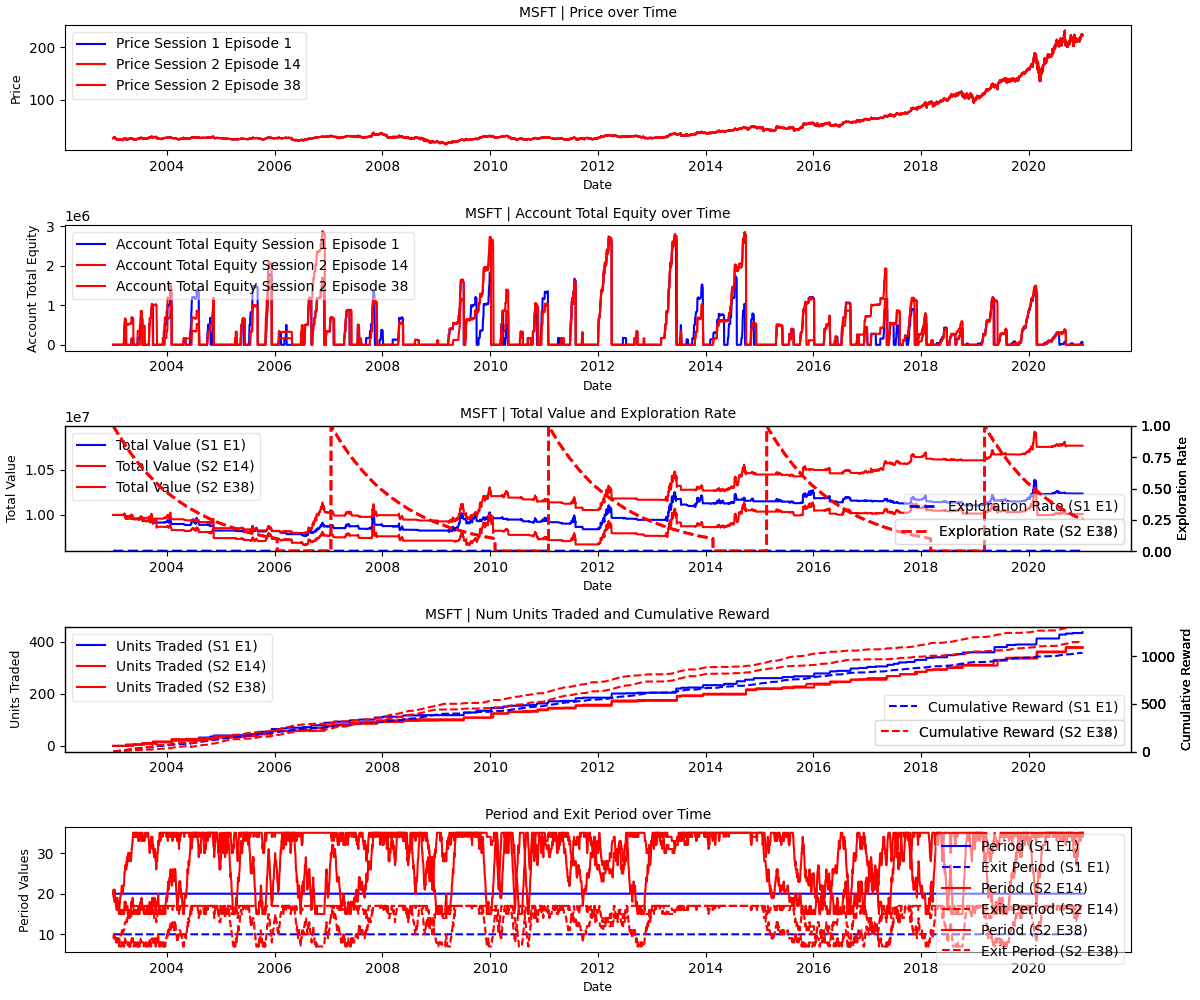
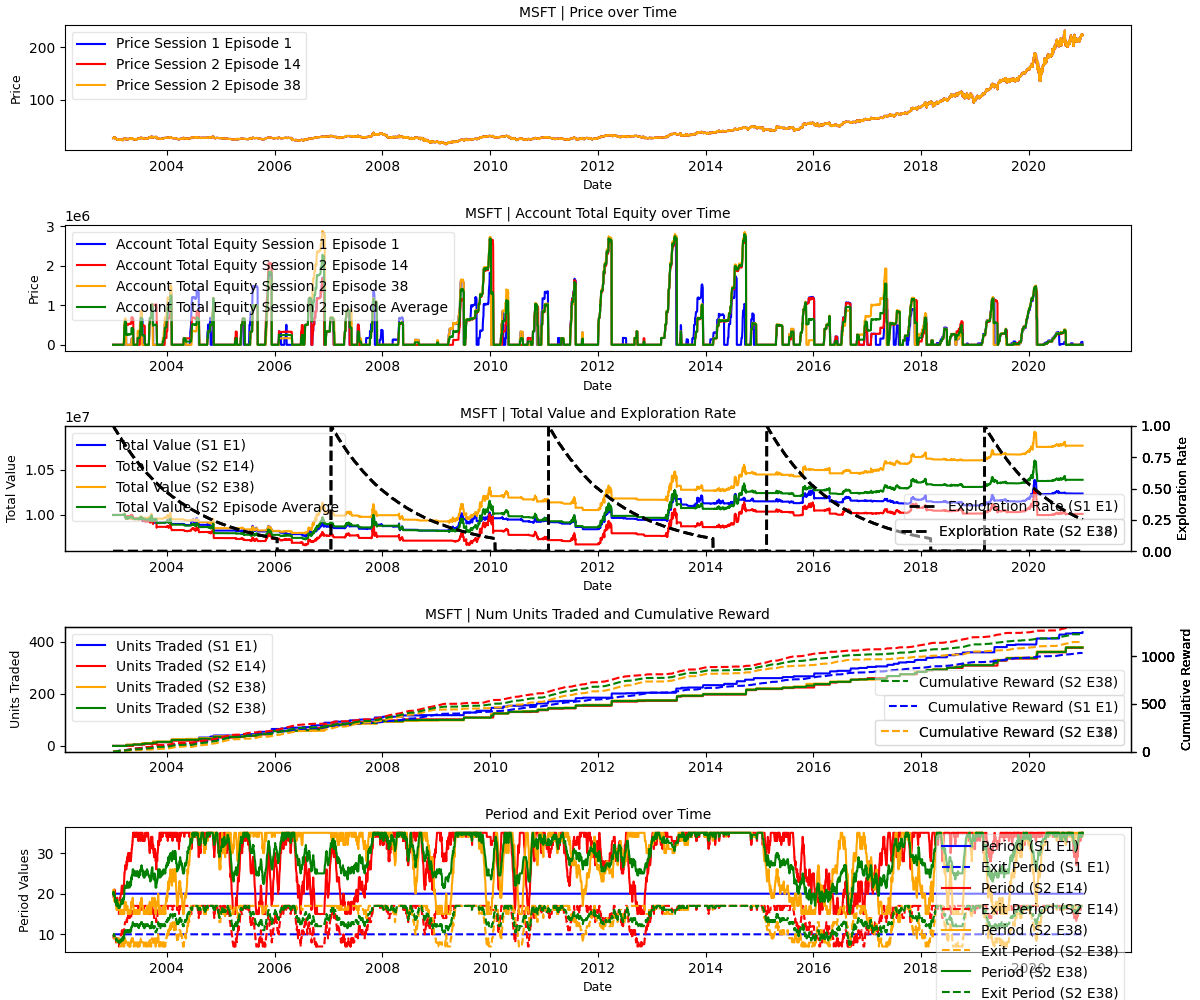
Saving and state graph done

diff --git a/src/gym_turtle_env/log_helpers.py b/src/gym_turtle_env/log_helpers.py
@@ -578,7 +578,7 @@ def plot_state_history_comparison(session_number1, session_number2, episode_nums
     - end_date: The end date to filter the data.
     """
     metrics = ['Price', 'Account Total Equity']
-    colors = ['blue', 'red', 'green', 'yellow', 'orange']
+    colors = ['blue', 'red', 'orange', 'green', 'yellow']
 
     # Adjust the figure size and the subplot layout
     fig, axs = plt.subplots(len(metrics) + 3, 1, figsize=(12, 10))  # Total height increased
@@ -600,6 +600,13 @@ def plot_state_history_comparison(session_number1, session_number2, episode_nums
         raise ValueError("Too many episodes to plot. Please limit to 5 or fewer episodes. If not specifying episode nums it is because the default param is all")
     
     ticker = None
+    
+    reward_sums_all = []
+    total_values_all = []
+    total_equities_all = []
+    num_units_all = []
+    periods_all = []
+    exit_peiods_all = []
 
     # First, determine the global min and max Exploration Rate across all data
     for session_number, episode_nums, color in [(session_number1, episode_nums1, colors[0]), (session_number2, episode_nums2, colors[1])]:
@@ -627,10 +634,14 @@ def plot_state_history_comparison(session_number1, session_number2, episode_nums
             
 
     # Load and filter data for each session and episode
+    color_index = 0
+    is_first = True
     for session_number, episode_nums, color in [(session_number1, episode_nums1, colors[0]), (session_number2, episode_nums2, colors[1])]:
         directory_path = get_log_file_path(session_number, 'state_history_logs')
         
         for episode_num in episode_nums:
+            color_use = colors[color_index]
+            color_index += 1
             file_path = os.path.join(directory_path, f'state_history_log_ep_{episode_num}.csv')
             
             if not os.path.exists(file_path):
@@ -651,7 +662,7 @@ def plot_state_history_comparison(session_number1, session_number2, episode_nums
 
             # Plot individual metrics
             for i, metric in enumerate(metrics):
-                axs[i].plot(state_log_df['Date'], state_log_df[metric], label=f"{metric} Session {session_number} Episode {episode_num}", color=color)
+                axs[i].plot(state_log_df['Date'], state_log_df[metric], label=f"{metric} Session {session_number} Episode {episode_num}", color=color_use)
                 axs[i].set_title(f"{ticker} | {metric} over Time", fontsize=10)
                 axs[i].set_xlabel('Date', fontsize=9)
                 axs[i].set_ylabel(metric, fontsize=9)
@@ -659,14 +670,14 @@ def plot_state_history_comparison(session_number1, session_number2, episode_nums
 
             # Plot Total Value and Exploration Rate
             ax_tv = axs[-3]
-            ax_tv.plot(state_log_df['Date'], state_log_df['Total Value'], label=f"Total Value (S{session_number} E{episode_num})", color=color)
+            ax_tv.plot(state_log_df['Date'], state_log_df['Total Value'], label=f"Total Value (S{session_number} E{episode_num})", color=color_use)
             ax_tv.set_title(f'{ticker} | Total Value and Exploration Rate', fontsize=10)
             ax_tv.set_xlabel('Date', fontsize=9)
             ax_tv.set_ylabel('Total Value', fontsize=9)
             ax_tv.legend(loc='upper left', framealpha=0.5)
 
             ax_er = ax_tv.twinx()
-            ax_er.plot(state_log_df['Date'], state_log_df['Exploration Rate'], label=f'Exploration Rate (S{session_number} E{episode_num})', color=color, linestyle='--', linewidth=2.0)
+            ax_er.plot(state_log_df['Date'], state_log_df['Exploration Rate'], label=f'Exploration Rate (S{session_number} E{episode_num})', color='black', linestyle='--', linewidth=2.0)
             ax_er.set_ylabel('Exploration Rate', fontsize=9)
             ax_er.set_ylim([min_exploration_rate, max_exploration_rate])
             # Adjusting both legends to be in the upper right with different vertical offsets
@@ -678,13 +689,13 @@ def plot_state_history_comparison(session_number1, session_number2, episode_nums
 
             # Combined plot for Num Units Traded and Cumulative Reward
             ax_combined = axs[-2]
-            ax_combined.plot(state_log_df['Date'], state_log_df['Num Units Traded'], label=f"Units Traded (S{session_number} E{episode_num})", color=color)
+            ax_combined.plot(state_log_df['Date'], state_log_df['Num Units Traded'], label=f"Units Traded (S{session_number} E{episode_num})", color=color_use)
             ax_combined.set_ylabel('Units Traded', fontsize=9)
             ax_combined.set_title(f'{ticker} | Num Units Traded and Cumulative Reward', fontsize=10)
             ax_combined.legend(loc='upper left', framealpha=0.5)
 
             ax_cr = ax_combined.twinx()
-            ax_cr.plot(state_log_df['Date'], state_log_df['Cumulative Reward'], label=f'Cumulative Reward (S{session_number} E{episode_num})', color=color, linestyle='--')
+            ax_cr.plot(state_log_df['Date'], state_log_df['Cumulative Reward'], label=f'Cumulative Reward (S{session_number} E{episode_num})', color=color_use, linestyle='--')
             ax_cr.set_ylabel('Cumulative Reward', fontsize=9)
             ax_cr.set_ylim([min_cumulative_reward, max_cumulative_reward])
             # Adjusting both legends to be in the lower right with different vertical offsets
@@ -697,15 +708,75 @@ def plot_state_history_comparison(session_number1, session_number2, episode_nums
 
             # Plot Periods
             ax_periods = axs[-1]
-            ax_periods.plot(state_log_df['Date'], state_log_df['Period'], label=f"Period (S{session_number} E{episode_num})", color=color)
-            ax_periods.plot(state_log_df['Date'], state_log_df['Exit Period'], label=f"Exit Period (S{session_number} E{episode_num})", linestyle='--', color=color)
+            ax_periods.plot(state_log_df['Date'], state_log_df['Period'], label=f"Period (S{session_number} E{episode_num})", color=color_use)
+            ax_periods.plot(state_log_df['Date'], state_log_df['Exit Period'], label=f"Exit Period (S{session_number} E{episode_num})", linestyle='--', color=color_use)
             ax_periods.set_title('Period and Exit Period over Time', fontsize=10)
             ax_periods.set_xlabel('Date', fontsize=9)
             ax_periods.set_ylabel('Period Values', fontsize=9)
             ax_periods.legend(framealpha=0.5)
+            
+            if not is_first:
+                reward_sums_all.append(state_log_df['Cumulative Reward'].values)
+                total_values_all.append(state_log_df['Total Value'].values)
+                total_equities_all.append(state_log_df['Account Total Equity'].values)
+                num_units_all.append(state_log_df['Num Units Traded'].values)
+                periods_all.append(state_log_df['Period'].values)
+                exit_peiods_all.append(state_log_df['Exit Period'].values)
+        
+        is_first = False
 
     # Adjust layout to avoid overlaps and make the plot look neat
     plt.tight_layout(pad=0.4, w_pad=0.5, h_pad=1.0)
+    
+    
+    if len(episode_nums2) > 1:
+        color_use = colors[color_index]
+        metric = 'Account Total Equity'
+                
+        mean_total_equites = np.sum(total_equities_all, axis=0) / len(total_equities_all)
+        
+        axs[1].plot(state_log_df['Date'], mean_total_equites, label=f"{metric} Session {session_number} Episode Average", color=color_use)
+        axs[1].set_title(f"{ticker} | {metric} over Time", fontsize=10)
+        axs[1].set_xlabel('Date', fontsize=9)
+        axs[1].set_ylabel('Price', fontsize=9)
+        axs[1].legend(framealpha=0.5, loc='upper left')
+        
+        mean_total_values = np.sum(total_values_all, axis=0) / len(total_values_all)
+        
+        ax_tv = axs[-3]
+        ax_tv.plot(state_log_df['Date'], mean_total_values, label=f"Total Value (S{session_number} Episode Average", color=color_use)
+        ax_tv.set_title(f'{ticker} | Total Value and Exploration Rate', fontsize=10)
+        ax_tv.set_xlabel('Date', fontsize=9)
+        ax_tv.set_ylabel('Total Value', fontsize=9)
+        ax_tv.legend(loc='upper left', framealpha=0.5)
+        
+        mean_units_traded = np.sum(num_units_all, axis=0) / len(num_units_all)
+        
+        ax_combined = axs[-2]
+        ax_combined.plot(state_log_df['Date'], mean_units_traded, label=f"Units Traded (S{session_number} E{episode_num})", color=color_use)
+        ax_combined.set_ylabel('Units Traded', fontsize=9)
+        ax_combined.set_title(f'{ticker} | Num Units Traded and Cumulative Reward', fontsize=10)
+        ax_combined.legend(loc='upper left', framealpha=0.5)
+        
+        mean_cumulative_rewards = np.sum(reward_sums_all, axis=0) / len(reward_sums_all)
+        
+        ax_cr = ax_combined.twinx()
+        ax_cr.plot(state_log_df['Date'], mean_cumulative_rewards, label=f'Cumulative Reward (S{session_number} E{episode_num})', color=color_use, linestyle='--')
+        ax_cr.set_ylabel('Cumulative Reward', fontsize=9)
+        ax_cr.set_ylim([min_cumulative_reward, max_cumulative_reward])
+        ax_cr.legend(loc='lower right', bbox_to_anchor=(1, 0.4), framealpha=0.5)
+        
+        mean_periods = np.sum(periods_all, axis=0) / len(periods_all)
+        mean_exit_periods = np.sum(exit_peiods_all, axis=0) / len(exit_peiods_all)
+
+        ax_periods = axs[-1]
+        ax_periods.plot(state_log_df['Date'], mean_periods, label=f"Period (S{session_number} E{episode_num})", color=color_use)
+        ax_periods.plot(state_log_df['Date'], mean_exit_periods, label=f"Exit Period (S{session_number} E{episode_num})", linestyle='--', color=color_use)
+        ax_periods.set_title('Period and Exit Period over Time', fontsize=10)
+        ax_periods.set_xlabel('Date', fontsize=9)
+        ax_periods.set_ylabel('Period Values', fontsize=9)
+        ax_periods.legend(framealpha=0.5)
+    
     
     if len(episode_nums1) == 1:
         results_directory = os.path.join('analysis_results', 'state_graphs')
@@ -716,6 +787,7 @@ def plot_state_history_comparison(session_number1, session_number2, episode_nums
         plot_name = f"{ticker}_ep_{episode_nums1[0]}_vs_{episode_nums2_joined}.png"
 
         plt.savefig(os.path.join(results_directory, plot_name))
+        
         
     plt.show()
     
